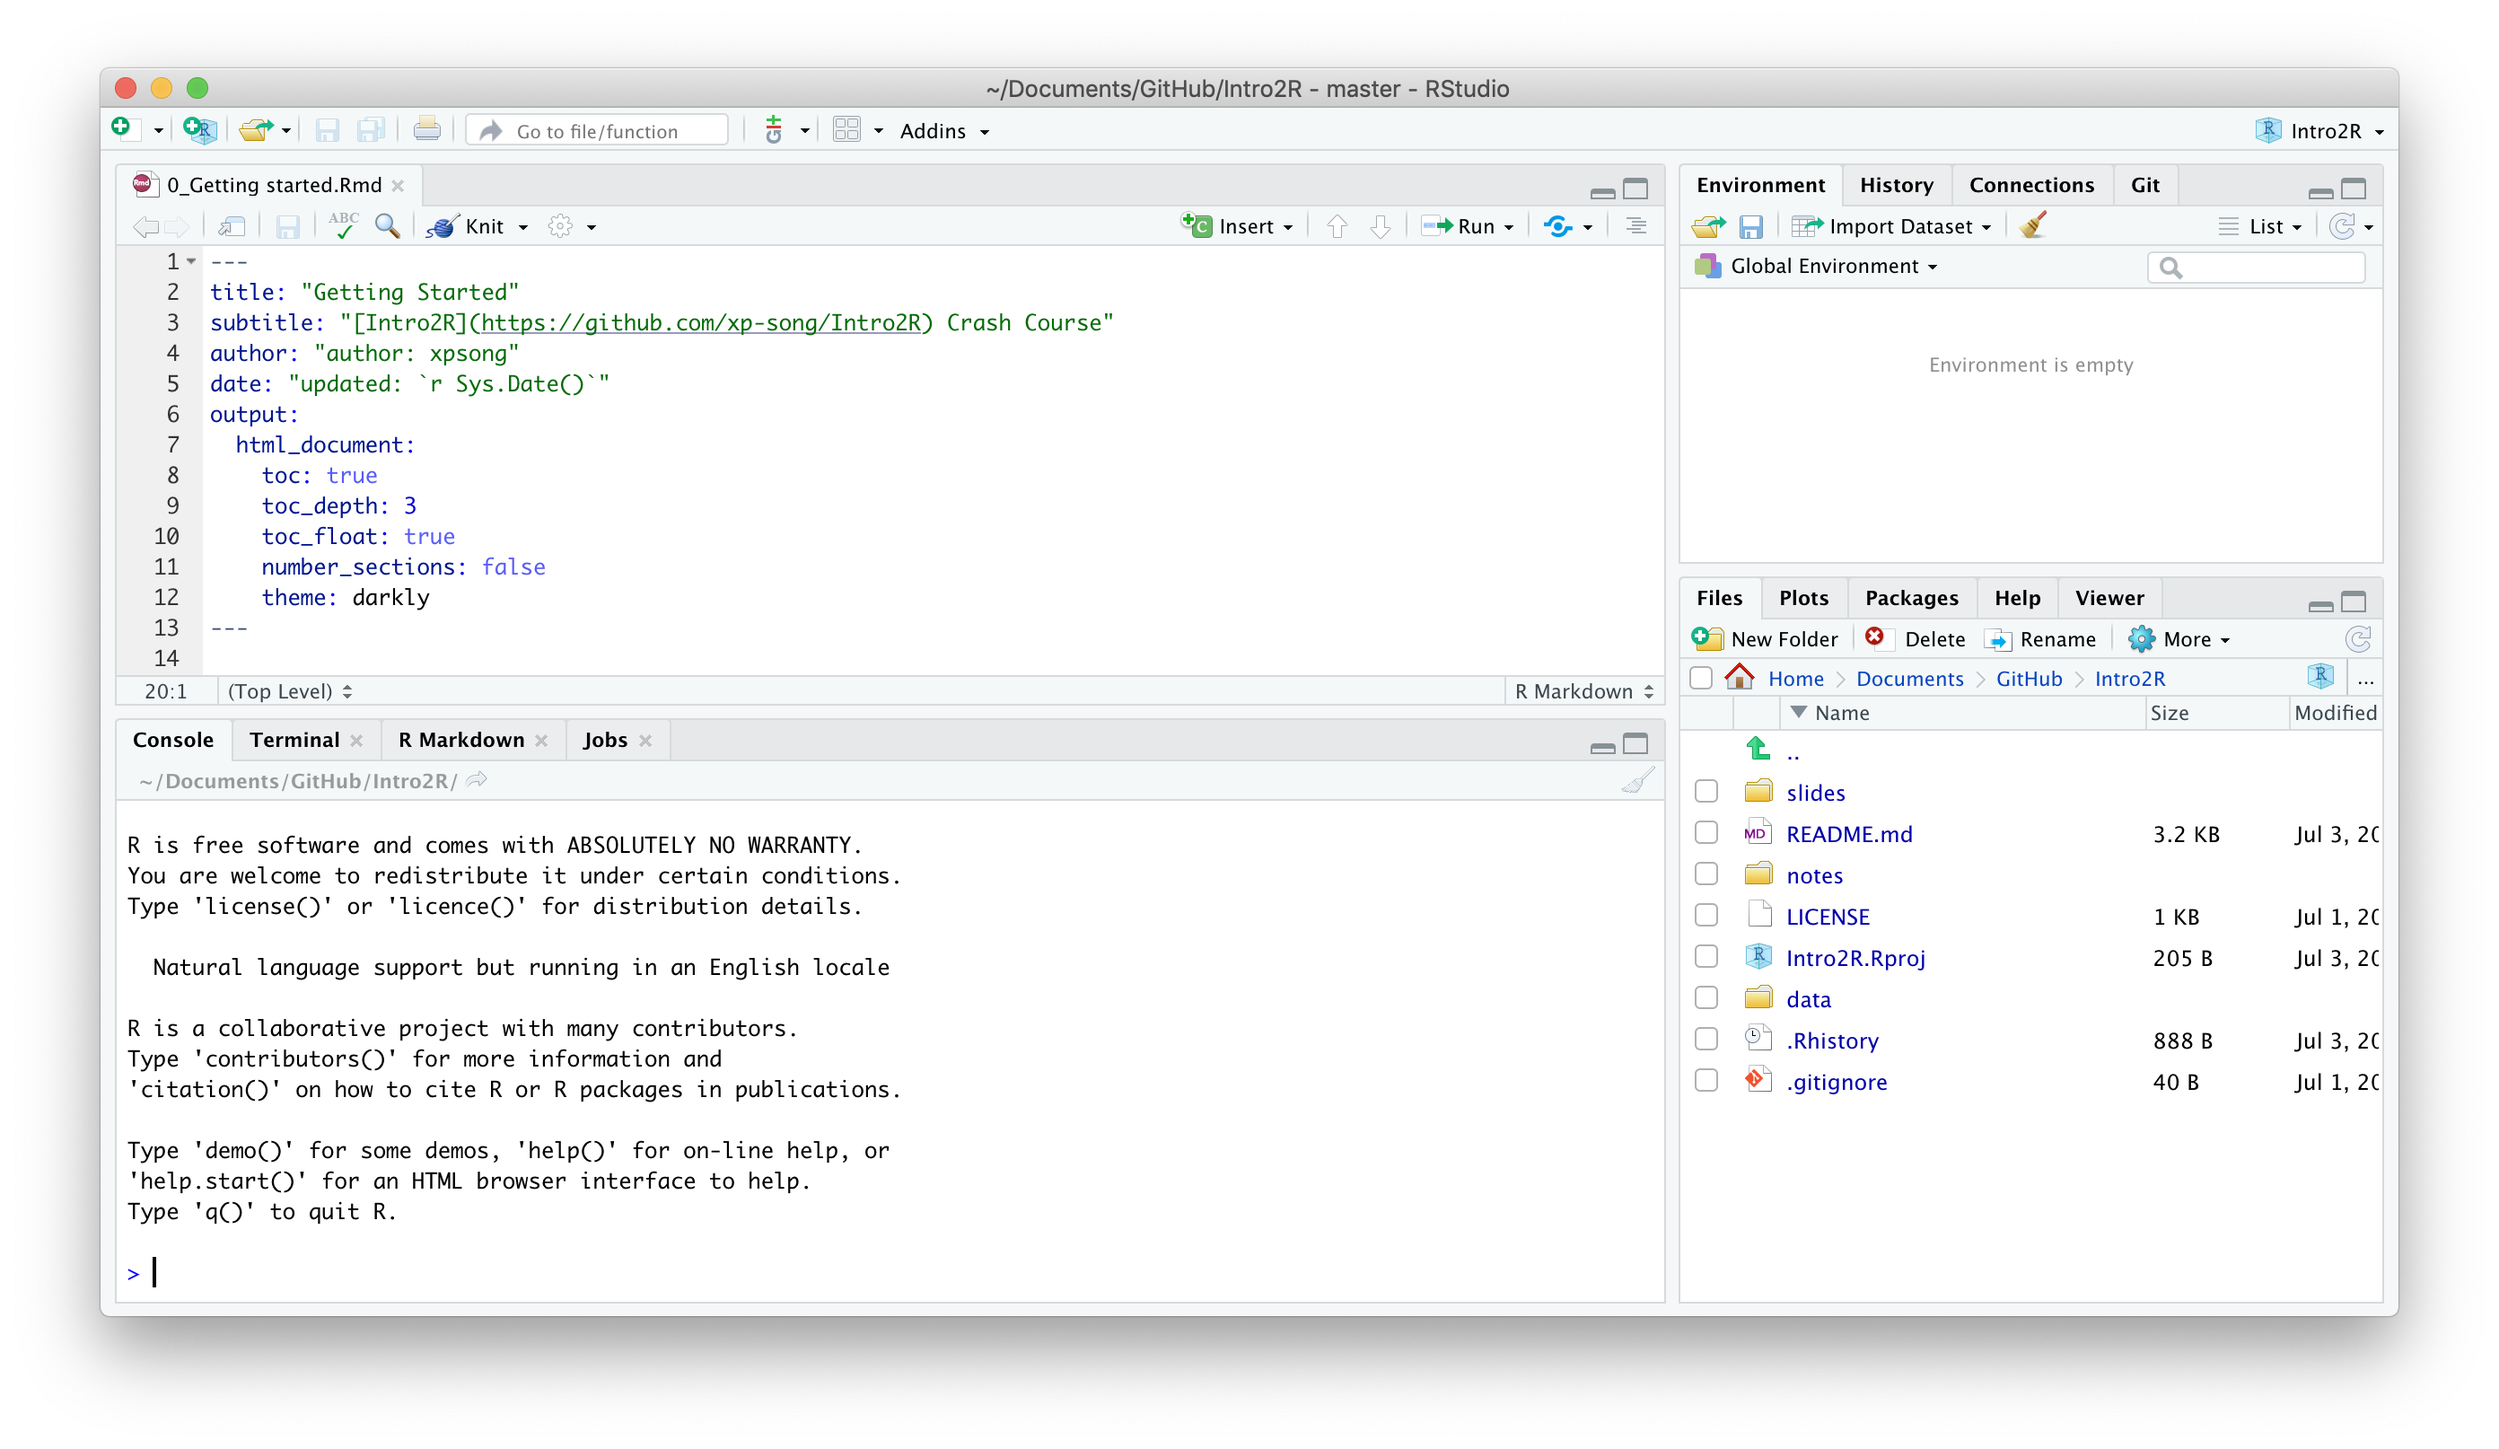
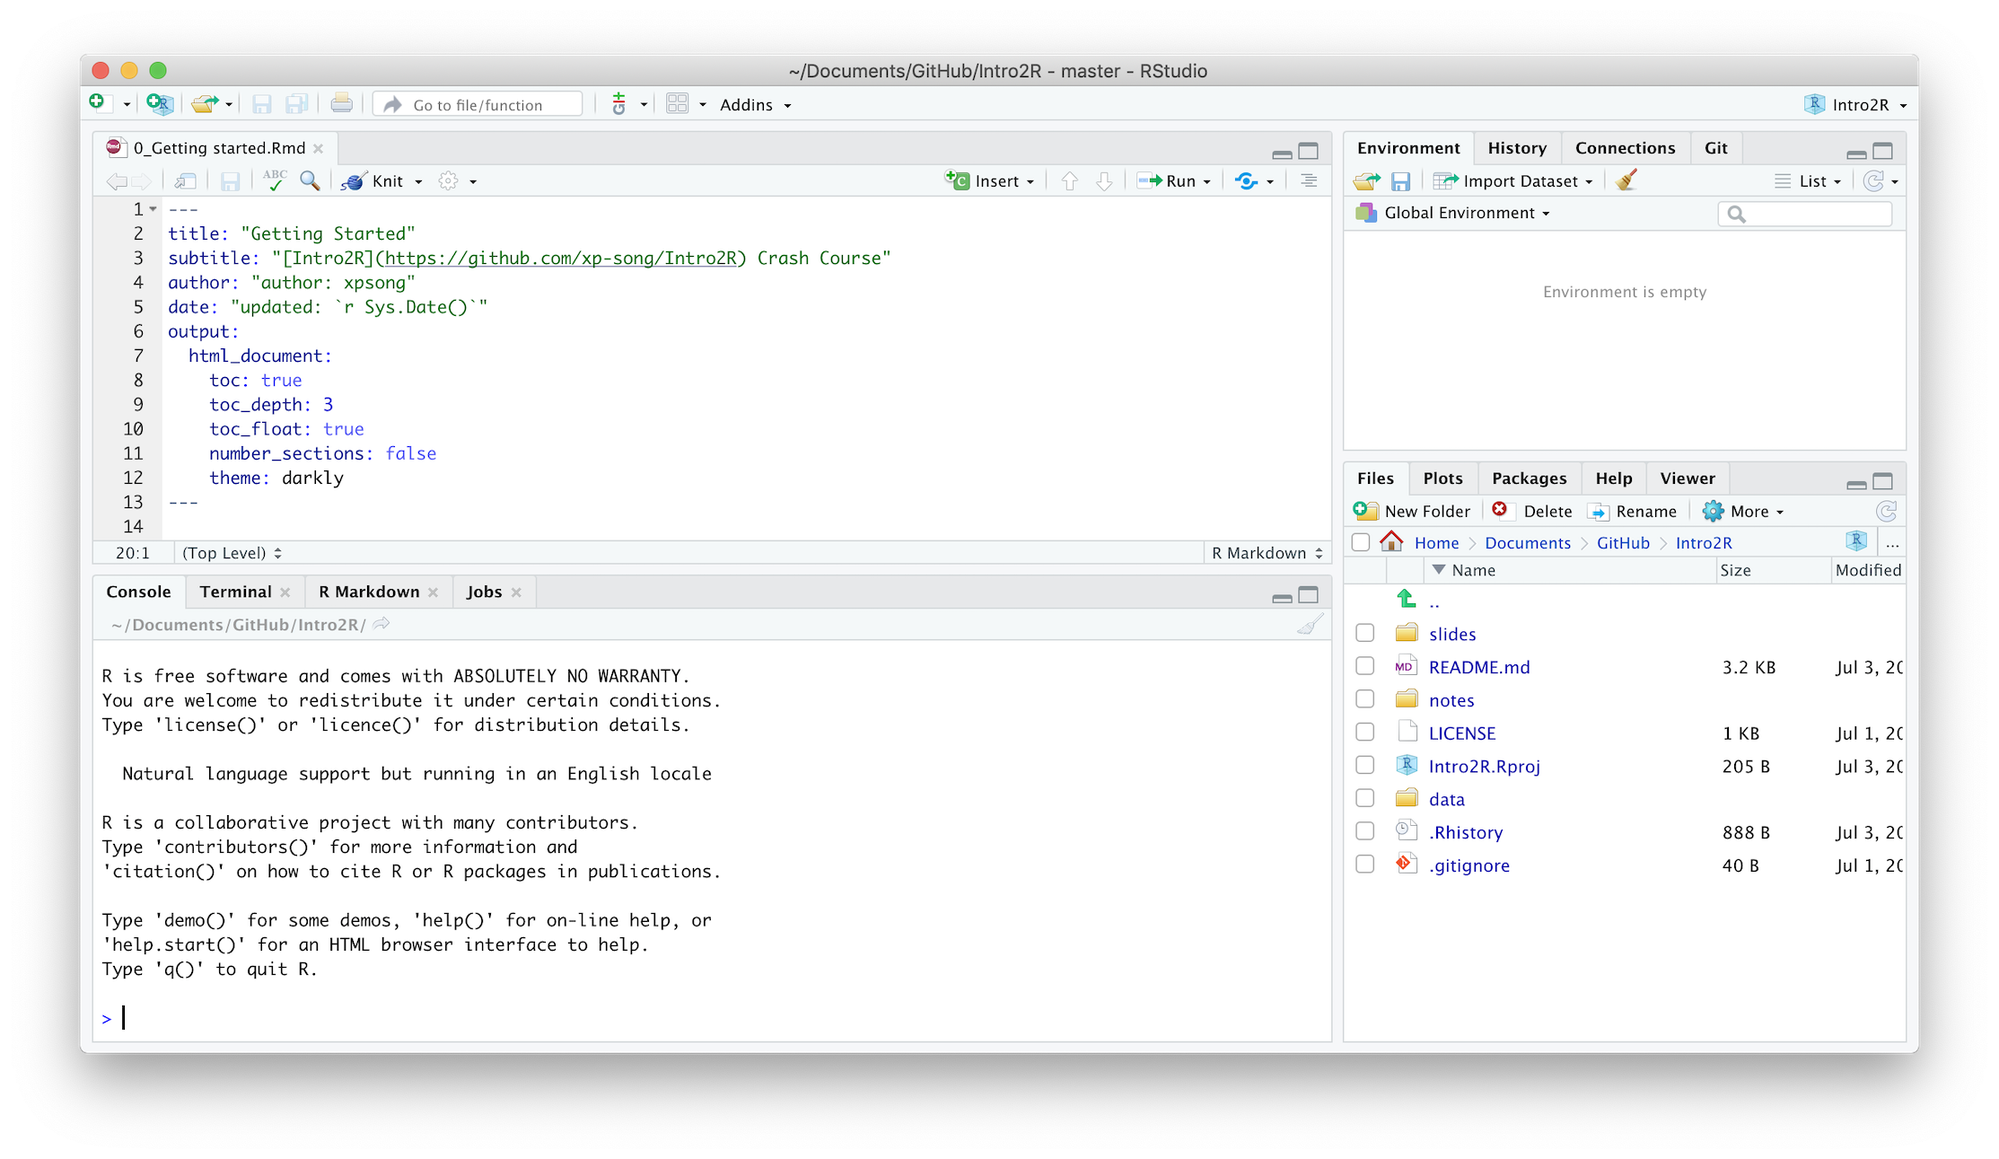
edit Rstudio client pointers & image resolution

diff --git a/files/slides/Intro2r_1/1_R_environment_and_syntax_slides.html b/files/slides/Intro2r_1/1_R_environment_and_syntax_slides.html
@@ -135,10 +135,10 @@ class: left
 
 &lt;img src="images/rstudio.png" width="600" style="display: block; margin: auto;" /&gt;
 
-* __Console:__ Command line input/output. All you would see if you ran R without RStudio.  
-* __Script editor:__ View/edit files that contain code. Code can be sent to the console.
-* __Environment/History:__ Shows all objects in R's memory. The history tab keeps track of past commands.
-* __Files/Plots/Packages/Help/Viewer__
+- __Console:__ Command line input/output. All you would see if you ran R without RStudio.  
+- __Script editor:__ View/edit files that contain code. Code can be sent to the console.
+- __Environment/History:__ Shows all objects in R's memory. The history tab keeps track of past commands.
+- __Files/Plots/Packages/Help/Viewer__
 
 ???
 
